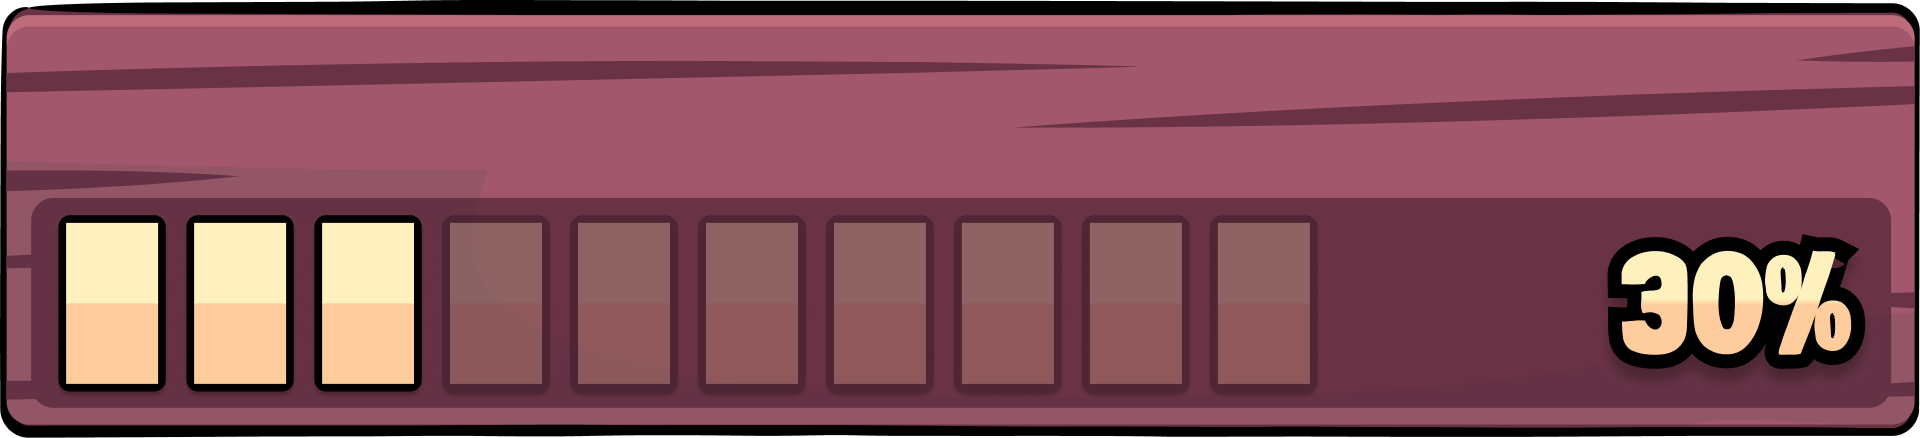
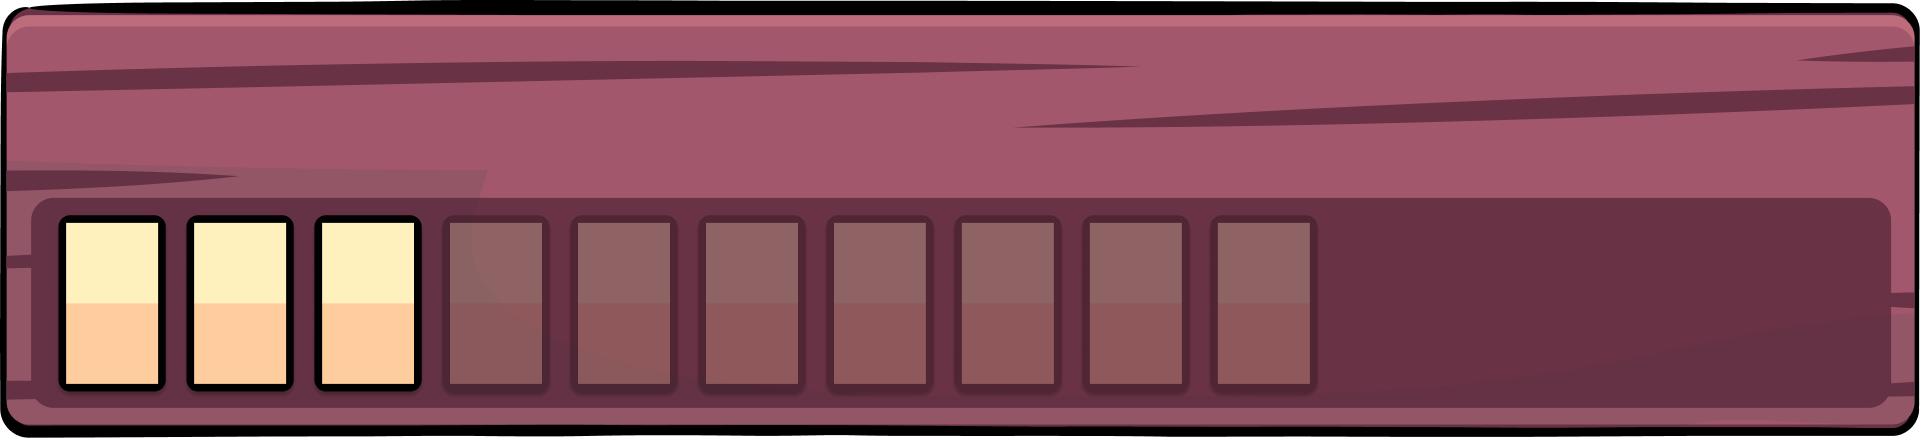
new WG meter

Changed region(s): [[0.8125, 0.5342, 0.9688, 0.8607]]

diff --git a/game/game.js b/game/game.js
@@ -440,9 +440,9 @@ export class Game {
     }
 
     // Decide return value
-    if (didInjure && didReduce) return ["Smoulder_Both", roundWG]; //Both passives used
-    if (didInjure) return ["Smoulder_Injured", roundWG]; // Injured a teammate
-    if (didReduce) return ["Smoulder_WG_Reduced", roundWG]; //reduced the wizards grasp
+    if (didInjure && didReduce) return ["Smoulder_Used", roundWG]; //Both passives used
+    if (didInjure) return ["Smoulder_Used", roundWG]; // Injured a teammate
+    if (didReduce) return ["Smoulder_Used", roundWG]; //reduced the wizards grasp
     return ["Smoulder_None", roundWG];
   }
 
@@ -464,7 +464,7 @@ export class Game {
       healedPlayer.injury = false;
       console.log(`Finley healed ${healedPlayer.name}`);
 
-      return "Finley_Healed";
+      return "Finley_Used";
     }
 
     return "Finley_None";
@@ -494,7 +494,7 @@ export class Game {
       roundWG -= 1; //changed from 2 to 1 for balance
       console.log("Waddles reduced the Wizard's Grasp!");
       console.log("post-waddles", roundWG);
-      return ["Waddles_Reduced", roundWG];
+      return ["Waddles_Used", roundWG];
     }
 
     return ["Waddles_None", roundWG];
@@ -523,7 +523,7 @@ export class Game {
       roundWG *= 0.5;
       console.log("Sprig reduced WG by 50%");
       console.log("post-sprig", roundWG);
-      return ["Sprig_Halved", roundWG];
+      return ["Sprig_Used", roundWG];
     }
     return ["Sprig_None", roundWG];
   }

diff --git a/my-react-app/src/components/result-ui/character-block/characterBlock.jsx b/my-react-app/src/components/result-ui/character-block/characterBlock.jsx
@@ -1,10 +1,10 @@
 import './characterBlock.css';
 
-export function CharacterBlock({ characterName, itemUsed, isInjured }) {  
+export function CharacterBlock({ characterName, passiveUsed, isInjured }) {  
     const characterAbbreviation = characterName.slice(0, 1).toUpperCase() + characterName.slice(1, 3).toLowerCase();
-    const characterStatus = itemUsed ? "Default" : isInjured ? "Injured" : "Transparent";
-    const itemStatus = itemUsed ? "Default" : "Transparent";
-    const promptStatus = itemUsed ? "YesProc" : "NoProc";
+    const characterStatus = passiveUsed ? "Default" : isInjured ? "Injured" : "Transparent";
+    const passiveStatus = passiveUsed ? "Default" : "Transparent";
+    const promptStatus = passiveUsed ? "YesProc" : "NoProc";
     const path = `/UI_Assets/Item_Cards/${characterName}`;
 
     return (
@@ -14,7 +14,7 @@ export function CharacterBlock({ characterName, itemUsed, isInjured }) {
                     <img src={`${path}/Portraits/${characterAbbreviation}_${characterStatus}.png`} alt="" />
                 </div>
                 <div className='item'>
-                    <img src={`${path}/ItemIcons/${characterAbbreviation}_Item_${itemStatus}.png`} alt="" />
+                    <img src={`${path}/ItemIcons/${characterAbbreviation}_Item_${passiveStatus}.png`} alt="" />
                 </div>
                 <div className='prompt'>
                     {characterName === "Smoulder" ? (

diff --git a/my-react-app/src/components/result-ui/result-block/resultBlock.jsx b/my-react-app/src/components/result-ui/result-block/resultBlock.jsx
@@ -7,9 +7,16 @@ export function ResultBlock({
   scenarioNum,
   chosenOption,
   resultText,
+  passive,
   countdown,
   timerDuration,
 }) {
+
+  const finleyUsedPassive = passive?.Finley == "Finley_Used";
+  const smoulderUsedPassive = passive?.Smoulder == "Smoulder_Used"
+  const waddlesUsedPassive = passive?.Waddles == "Waddles_Used"
+  const sprigUsedPassive = passive?.Sprig == "Sprig_Used"
+
   return (
     <div className="result-content">
       <div className="top-section">
@@ -21,22 +28,22 @@ export function ResultBlock({
         <div className="character-panel">
           <CharacterBlock
             characterName="Finley"
-            itemUsed={false}
+            passiveUsed={finleyUsedPassive}
             isInjured={false}
           />
           <CharacterBlock
             characterName="Smoulder"
-            itemUsed={false}
+            passiveUsed={smoulderUsedPassive}
             isInjured={false}
           />
           <CharacterBlock
             characterName="Sprig"
-            itemUsed={false}
+            passiveUsed={sprigUsedPassive}
             isInjured={false}
           />
           <CharacterBlock
             characterName="Waddles"
-            itemUsed={false}
+            passiveUsed={waddlesUsedPassive}
             isInjured={false}
           />
         </div>

diff --git a/my-react-app/src/pages/scenario-screen/page.jsx b/my-react-app/src/pages/scenario-screen/page.jsx
@@ -139,6 +139,7 @@ export default function ScenarioScreen({
               scenarioNum={gameState.stage + 1}
               chosenOption={roundResult.winningChoice[0]}
               resultText={roundResult.resultText}
+              passive={roundResult.passives}
               countdown={countdown}
               timerDuration={timerDuration}
             />
